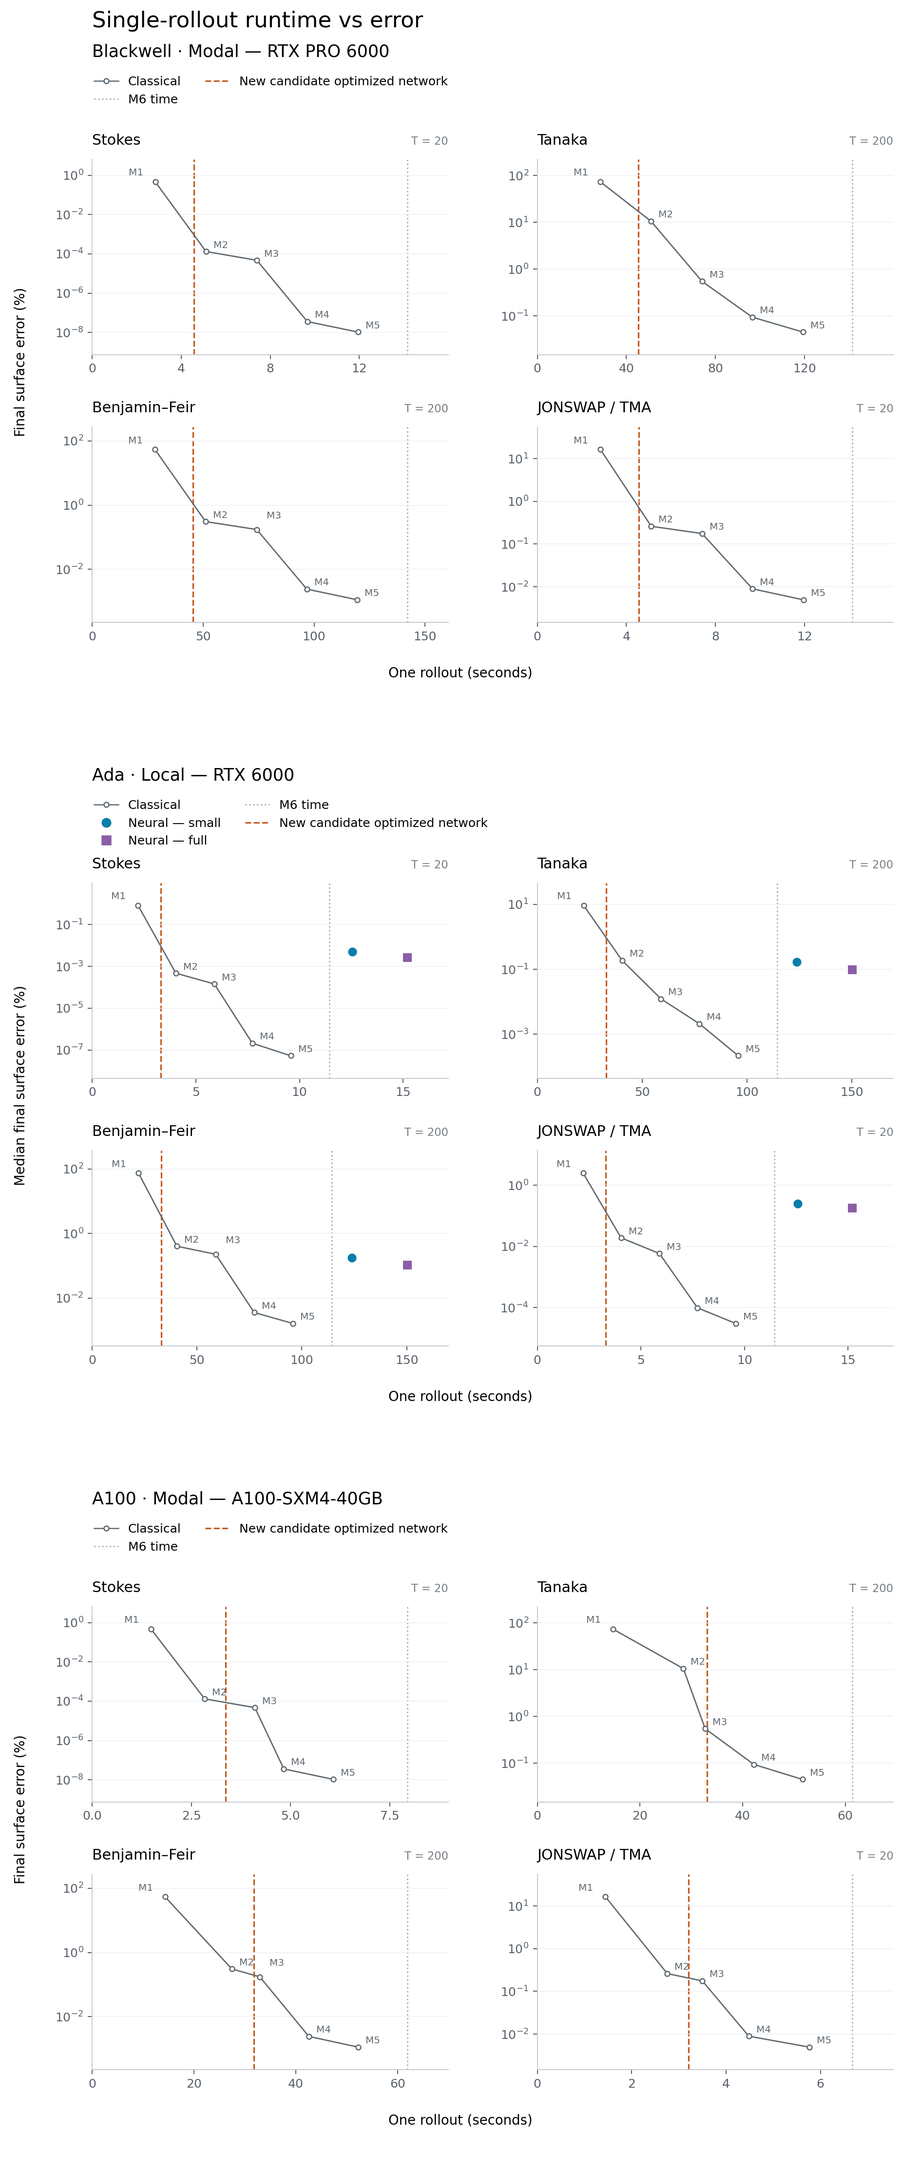
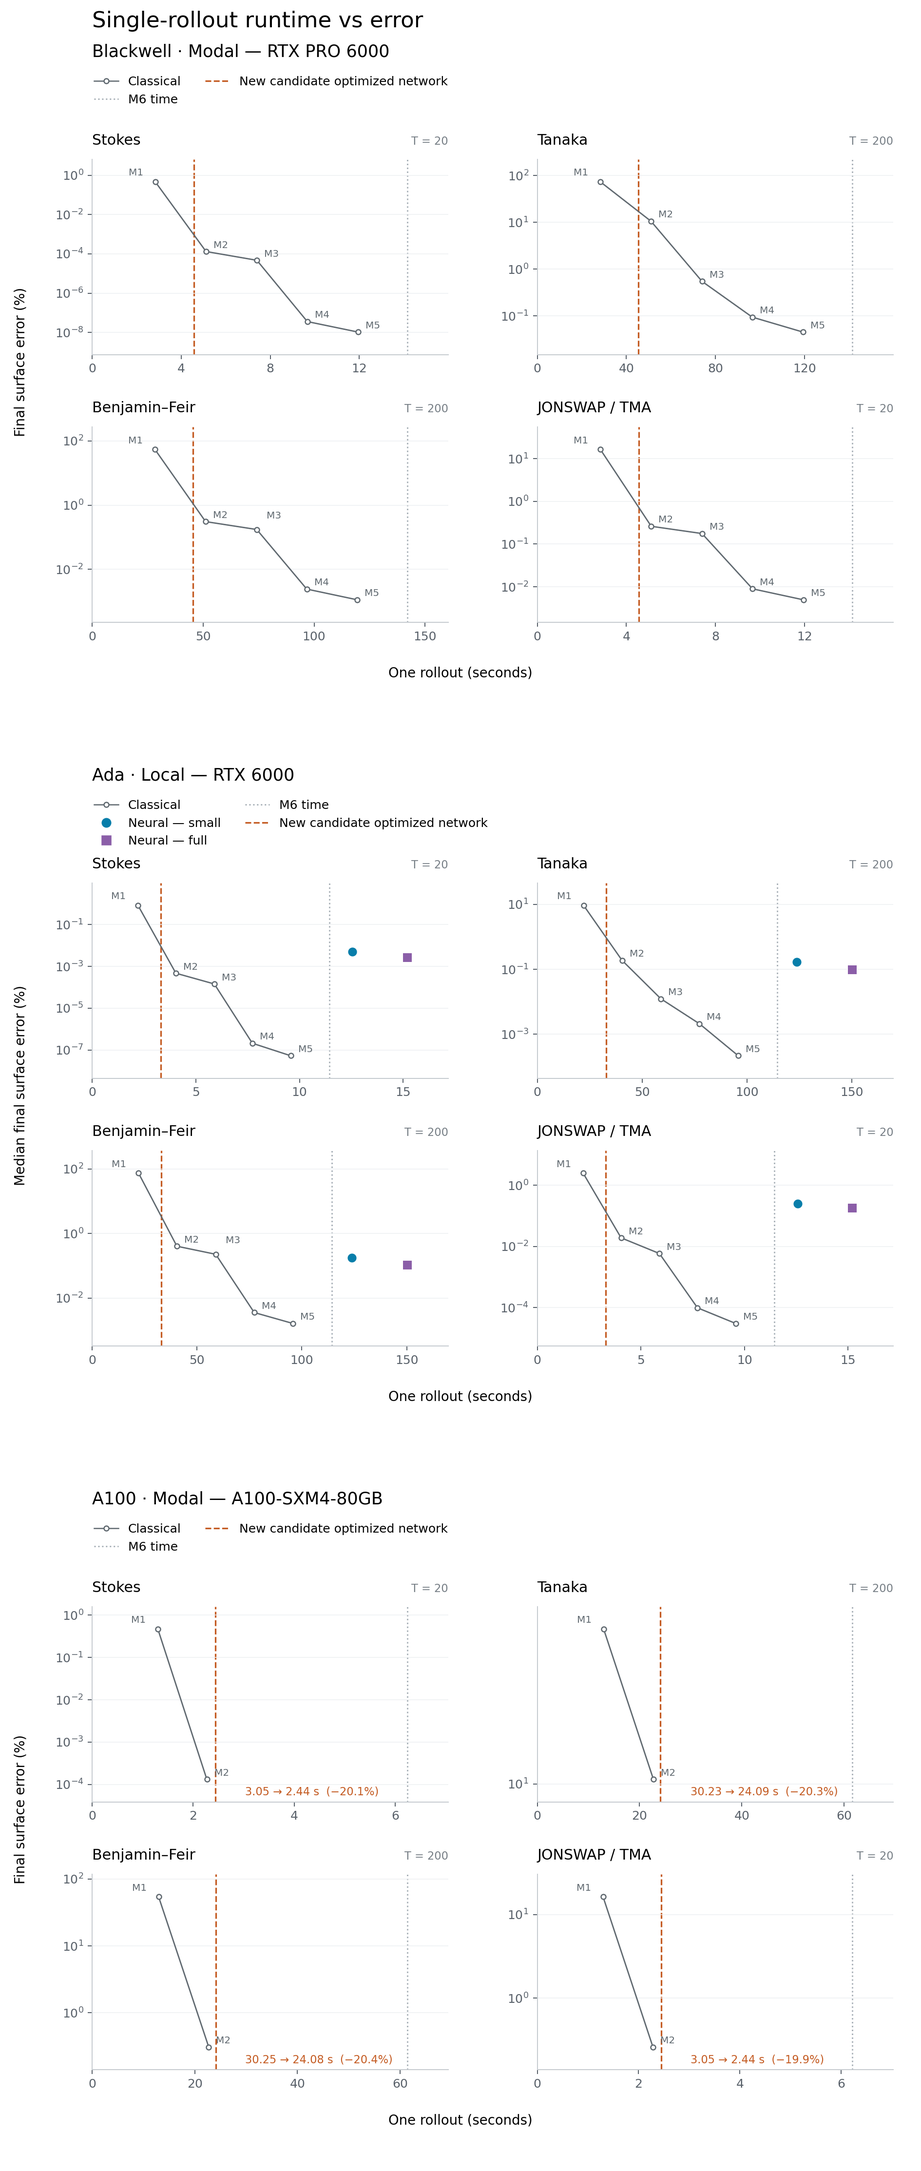
Record Fourier-I/O rollout speedup and update A100 figure

diff --git a/scripts/benchmark_dno_fusion.py b/scripts/benchmark_dno_fusion.py
@@ -249,12 +249,13 @@ if __name__ == "__main__":
     parser.add_argument("--output", type=Path, default=ROOT / "outputs/dno_fusion_20260924")
     parser.add_argument("--repeats", type=int, default=600)
     parser.add_argument("--variants", nargs="+", choices=(*VARIANTS, *TRIALS), default=VARIANTS)
+    parser.add_argument("--reference", choices=("original", "cufftdx"), default="original")
     parser.add_argument("--ept", type=int, choices=(4, 8, 16), default=8)
     parser.add_argument("--capture", choices=(*VARIANTS, *TRIALS), help="Capture 100 warmed calls of one variant instead of timing/testing.")
     args = parser.parse_args()
     variants = args.variants
-    if not args.capture and "original" not in variants:
-        parser.error("include original as the numerical reference")
+    if not args.capture and args.reference not in variants:
+        parser.error("include the numerical reference in variants")
     loaded = load_run(args.run)
     source = next((ROOT / "outputs/c27_tanaka_hard128_full_equal_local_20260918").glob(
         "eval_best_current_test_stratified_n32*/stokes_trajs.npz"
@@ -294,7 +295,7 @@ if __name__ == "__main__":
             started = time.perf_counter()
             functions[variant](eta, xi).block_until_ready()
             records[variant]["seconds"].append(time.perf_counter() - started)
-    reference = np.asarray(functions["original"](eta, xi))
+    reference = np.asarray(functions[args.reference](eta, xi))
     for variant, record in records.items():
         actual = np.asarray(functions[variant](eta, xi))
         record.update(median_us=float(np.median(record["seconds"]) * 1e6),
@@ -315,9 +316,9 @@ if __name__ == "__main__":
             families.extend([family] * 12)
     check_eta, check_xi = map(jnp.asarray, (np.concatenate(validation_eta), np.concatenate(validation_xi)))
     check_depth = jnp.log(jnp.asarray(np.concatenate(validation_depth)))
-    original = build_predict_gxi_batched(loaded)
-    expected = np.asarray(original(check_eta, check_xi, check_depth))
-    for variant in (name for name in variants if name != "original"):
+    reference_predict = build_variant(loaded, check_depth, eta.shape[-1], args.reference, fft_ept=args.ept)
+    expected = np.asarray(reference_predict(check_eta, check_xi))
+    for variant in (name for name in variants if name != args.reference):
         candidate = build_variant(loaded, check_depth, eta.shape[-1], variant, fft_ept=args.ept)
         if variant in ("fourier", "fourier_round"):
             candidate = jax.jit(lambda e, x, fn=candidate: jnp.fft.irfft(fn(jnp.fft.rfft(e), jnp.fft.rfft(x)), n=e.shape[-1]))
@@ -334,19 +335,27 @@ if __name__ == "__main__":
             other_xi = jnp.roll(check_xi, 1, axis=0)
             other = np.asarray(candidate(check_eta, other_xi))
             mixed = np.asarray(candidate(check_eta, 0.3 * check_xi - 0.7 * other_xi))
-            linear_error = float(np.linalg.norm(mixed - (0.3 * actual - 0.7 * other)) / np.linalg.norm(mixed))
+            denominator = 0.3 * np.linalg.norm(actual) + 0.7 * np.linalg.norm(other)
+            linear_error = float(np.linalg.norm(mixed - (0.3 * actual - 0.7 * other)) / denominator)
+            other_reference = np.asarray(reference_predict(check_eta, other_xi))
+            mixed_reference = np.asarray(reference_predict(check_eta, 0.3 * check_xi - 0.7 * other_xi))
+            reference_linear_error = float(np.linalg.norm(mixed_reference - (0.3 * expected - 0.7 * other_reference)) /
+                                          (0.3 * np.linalg.norm(expected) + 0.7 * np.linalg.norm(other_reference)))
+            mixed_error = float(np.linalg.norm(mixed - mixed_reference) / np.linalg.norm(mixed_reference))
             flat = np.asarray(candidate(jnp.zeros_like(check_eta), check_xi))
-            flat_reference = np.asarray(original(jnp.zeros_like(check_eta), check_xi, check_depth))
+            flat_reference = np.asarray(reference_predict(jnp.zeros_like(check_eta), check_xi))
             flat_error = float(np.linalg.norm(flat - flat_reference) / np.linalg.norm(flat_reference))
             zero_error = float(np.abs(np.asarray(candidate(check_eta, jnp.zeros_like(check_xi)))).max())
             records[variant]["validation"].update(linearity_relative_l2=linear_error,
-                                                  flat_relative_l2=flat_error, zero_xi_max_absolute=zero_error)
-            records[variant]["validation"]["passed"] &= linear_error <= 1e-5 and flat_error <= 1e-5 and zero_error == 0
+                                                  reference_linearity_relative_l2=reference_linear_error,
+                                                  mixed_relative_l2=mixed_error, flat_relative_l2=flat_error,
+                                                  zero_xi_max_absolute=zero_error)
+            records[variant]["validation"]["passed"] &= mixed_error <= 1e-5 and flat_error <= 1e-5 and zero_error == 0
         print(f"{variant}: 48-state max relative difference {relative.max():.3g}; "
               f"passed={records[variant]['validation']['passed']}", flush=True)
     report = {"run": str(args.run), "batch_size_timing": 1, "nx": eta.shape[-1],
               "parameters": sum(leaf.size for leaf in jax.tree.leaves(loaded.params)),
-              "device": jax.devices()[0].device_kind, "variants": records,
+              "device": jax.devices()[0].device_kind, "reference": args.reference, "variants": records,
               "scope": "Model-only inference prototypes; production model and checkpoints unchanged."}
     (args.output / "results.json").write_text(json.dumps(report, indent=2) + "\n")
 
@@ -375,5 +384,5 @@ if __name__ == "__main__":
         ax.text(value + 3, index, f"{value:.1f} µs", va="center")
     for suffix in ("png", "pdf"):
         fig.savefig(args.output / f"forward_fusion.{suffix}", dpi=180)
-    if any(records[variant]["validation"]["passed"] is False for variant in variants if variant != "original"):
+    if any(records[variant]["validation"]["passed"] is False for variant in variants if variant != args.reference):
         raise RuntimeError("Forward equivalence failed; see results.json for the rejected variants.")

diff --git a/paper-plots/plot_neural_advantage.py b/paper-plots/plot_neural_advantage.py
@@ -60,7 +60,7 @@ def draw_comparison(args: argparse.Namespace, fig: Figure | SubFigure, heading: 
     for ax, (family, title) in zip(axes.flat, FAMILIES, strict=True):
         if args.single_case:
             timing = warm["families"][family]
-            orders = np.arange(1, 7)
+            orders = np.asarray(sorted(int(name[1:]) for name in timing["methods"] if name.startswith("M")))
             seconds = np.asarray([np.median(timing["methods"][f"M{order}"]["seconds"]) for order in orders])
             errors = 100 * np.asarray([timing["methods"][f"M{order}"]["cached_reference_terminal_eta_error"] for order in orders])
             horizon = timing["horizon"]
@@ -179,12 +179,17 @@ if __name__ == "__main__":
             config.candidate_method = "fused_cufftdx_spectral_all"
             config.candidate_previous_method = None
             config.no_baseline_timings = None
+        a100.candidate_timings = [ROOT / "outputs/fourier_io_20260926/a100_full/rollouts.json"]
+        a100.timings = a100.candidate_timings[0]
+        a100.classical_timings = None
+        a100.candidate_method = "fourier_round_spectral_all"
+        a100.candidate_previous_method = "fused_cufftdx_spectral_all"
         fig = plt.figure(figsize=(10.5, 24.75))
         fig.suptitle("Single-rollout runtime vs error", y=0.995, fontsize=18, ha="left", x=0.10)
         blackwell, ada, ampere = fig.subfigures(3, 1)
         draw_comparison(modal, blackwell, "Blackwell · Modal — RTX PRO 6000")
         draw_comparison(args, ada, "Ada · Local — RTX 6000")
-        draw_comparison(a100, ampere, "A100 · Modal — A100-SXM4-40GB")
+        draw_comparison(a100, ampere, "A100 · Modal — A100-SXM4-80GB")
     else:
         fig = plt.figure(figsize=(10.5, 8))
         draw_comparison(args, fig)

diff --git a/experiments/experiments-2026-09-26.md b/experiments/experiments-2026-09-26.md
@@ -7,3 +7,4 @@
 | 2026-09-26 | 03:35 | A100 cuFFT versus cuFFTDx G1 in current packed spectral rollout | A100's native FP64 FFT performance differs from Ada/Blackwell, so cuFFTDx need not remain the fastest baseline backend after adapter optimization. | Added only fused_front_spectral_all selector for the existing batched-cuFFT front implementation. Personal Modal A100 job runs original/front/cuFFTDx48-state validation, then three full batch-one repeats of each candidate and M1/M2 plus one M6 reference across four families. Raw destination: outputs/a100_g1_backend_20260926/. | Static independent audit confirms only G1 execution differs: identical model-local unpadded N1024 FP64 baseline math, weights, depth clipping, normalization, G0 and learned branches. Floating-point summation order differs. Ruff/Pyright pass; fresh numerical checks pending. | Launch confirmed03:35; full timings pending. | TEST only option1. No training, spectral-interface changes, production edits or local GPU use. |
 | 2026-09-26 | 03:53 | Completed A100 G1 backend comparison | Test whether native cuFFT's strong A100 FP64 performance outweighs extra calls compared with the fused cuFFTDx baseline in full network execution. | Completed52 full timings and20 outputs. cuFFTDx→cuFFT median seconds: Stokes2.9756→3.5626(+19.73%), Tanaka29.5806→35.3613(+19.54%), BF29.5520→35.3438(+19.60%), JON3.0023→3.5643(+18.72%). Every cuFFT repeat is slower than its family's cuFFTDx repeats. Model-only200-repeat screen258.35→325.37 microseconds agrees with full-rollout ordering. Raw: outputs/a100_g1_backend_20260926/. | PASS: independent audit confirms protocol/counts, all outputs finite/positive and maximum M6 cached eta discrepancy5.08e-12. Both48-state forward checks differ from production by at most2.81e-8 relative. Not bitwise trajectory-equivalent: BF terminal eta error1.0691%→0.9575%; other differences small. Scoped Ruff/Pyright pass. | 00:17 from confirmed launch03:35 to downloaded results03:52; independent audit/documentation03:53. | REJECT cuFFT as speed replacement; retain cuFFTDx and existing Figure12. Keep one-line benchmark selector. No training, production changes, option2 implementation or local GPU use. Personal Modal app completed/stopped. |
 | 2026-09-26 | 20:26 | Native Fourier-input/output prototype and rounding checks | The solver already holds Fourier coefficients; keeping G0 and the learned correction spectral and shortening fused G1 can remove interface conversions without changing weights or the model-local baseline. | Added benchmark-only native predictor, spectral cuFFTDx G1 operation6, and matching saved-Gxi/RHS wiring. Kernel compares against direct JAX and old-sandwich roundtrip for batches1/2 with explicit Nyquist content. Initial all-spectral input normalization fails48-state equivalence at1.82e-4; revised variants preserve physical FP32 eta rounding or both eta/xi rounding. Fixed missing CLI plot label discovered after initial checks. Raw: outputs/fourier_io_20260926/a100/; refined A100 job under a100_refined/. | Kernel PASS: new spectral G1 differences≤6.31e-16; all24 native checks pass. Initial network FAILS1e-5 threshold; no full rollouts run. Static independent audit verifies scales, clipping, signs, endpoint handling and saved-predictor binding. Ruff/Pyright pass. Refined tests add xi-linearity, flat-surface and zero-xi checks before full rollouts. | Initial checks completed20:23; refined job launched20:25 and confirmed20:26. | REJECT changed input rounding; test rounding-preserving alternatives. No training, production edits or local GPU use. Pre-existing CUDA operation5 edits preserved outside task. |
+| 2026-09-26 | 20:51 | Completed native Fourier-I/O full-rollout comparison and Figure12 | Retaining physical FP32 input rounding should preserve the trained features while spectral output and a two-transform G1 kernel reduce execution work inside the spectral integrator. | Final variant preserves both input roundings. Refined candidate and old cuFFTDx control both failed comparison to unfused original at1.32e-5; cause unresolved, failed evidence retained. Explicit comparison to current cuFFTDx implementation passes unchanged1e-5 threshold. Completed52 full timings/20 outputs on actual A100-SXM4-80GB: old→new medians Stokes3.0486→2.4362s, Tanaka30.2265→24.0925s, BF30.2481→24.0818s, JON3.0505→2.4448s (19.86–20.39% reductions). New candidate remains5.97–7.28% slower than paired M2. Raw: outputs/fourier_io_20260926/a100_full/. Standalone physical-wrapper microbenchmark is slower and is not the native rollout comparison. | PASS: independent audit verifies52 timings, three repeats per candidate/M1/M2 and one M6 per family; same weights, N1024, batch1, dt0.01, four GL2 iterations, pad2, full T20/200. All20 outputs finite/positive; maximum cached-M6 eta discrepancy5.08e-12.48-state max DNO difference2.71e-7, pooled flat1.82e-7/mixed1.76e-7, exact zero-xi output. No material rollout-error regression; not bitwise equivalent. Native kernel24 checks pass. | Full run00:16 (20:32–20:48); independent audit, figure render and visual check20:51. | KEEP benchmark-only Fourier-I/O candidate. Figure12 A100 row uses only actual80GB measurements: fresh M1/M2 points, single M6 timing, and candidate savings; omit unmeasured M3–M5 rather than mix prior40GB timings. Ada/Blackwell unchanged. No training, production edits or local GPU use; Modal app completed/stopped. Preserve concurrent unrelated PyTorch/operation5 edits. |

diff --git a/notes/dno_profile_20260924.md b/notes/dno_profile_20260924.md
@@ -939,3 +939,73 @@ rollout speed. Raw measurements and forward HLO are under
 optimization; keep cuFFTDx and leave Figure12 unchanged. No training,
 production edits, spectral-interface implementation or local GPU use occurred.
 The Modal app completed and stopped after returning results.
+
+## Native Fourier-input/output inference — September 26
+
+The integrator already stores unnormalized Fourier coefficients. The
+benchmark-only `fourier_round_spectral_all` predictor accepts those coefficients
+and returns the DNO spectrum directly. G0 is a spectral multiplication; the
+learned correction stays spectral after its final branch reduction. A new
+cuFFTDx G1 operation accepts spectral xi and returns spectral terms, reducing
+each fused term from four transforms to two: inverse FFT, multiplication by
+eta, forward FFT. Saved Gxi uses this same predictor through a physical-output
+wrapper. The physical-space surface features, nonlinearities and branch
+products remain unchanged, as do the checkpoint, clipped depth, unpadded model
+grid and FP64-G1/FP32-learned precision choices. This is not the rejected
+shared-classical-M1 baseline replacement.
+
+The first all-spectral input-normalization attempt differed by1.82e-4 over48
+states, exceeding the unchanged1e-5 threshold. Preserving eta rounding alone
+did not resolve it. The accepted input path retains both original physical
+FP32 input roundings before normalization and transformation. It therefore
+does not remove every input-side FFT. All24 native-kernel checks passed,
+including batches1/2 and explicit Nyquist content; the spectral G1 kernel
+agrees with direct JAX and the old kernel's roundtrip to6.31e-16 relative.
+
+In the second allocation, both the existing cuFFTDx control and the
+rounding-preserving candidate differed from the unfused predictor by1.32e-5.
+That failed comparison is retained under
+`outputs/fourier_io_20260926/a100_refined/`; its cause is unresolved. The final
+test explicitly uses the current cuFFTDx candidate as its reference, retaining
+the1e-5 threshold, and passes with maximum per-state relative difference
+2.71e-7 across48 states. Additional pooled-norm flat and mixed-input comparisons
+pass, and zero xi gives exact zero. Numerical linearity residuals are reported
+for both implementations. These checks establish agreement with the current
+optimized candidate, not new agreement with the unfused predictor.
+
+Full-rollout results use a personal Modal A100-SXM4-80GB and the same N1024,
+batch1, dt0.01, four GL2 iterations, classical padding2 and T20/200 protocol.
+The physical-wrapper standalone timing includes conversions absent from the
+native spectral rollout and is not used to infer its speed. Raw results:
+`outputs/fourier_io_20260926/a100_full/`. No training or production changes.
+
+All52 full timings and20 method/family outputs completed. Median seconds
+from three repeats, with one M6 accuracy reference per family:
+
+| Family | Previous candidate | Fourier-I/O candidate | Runtime reduction | M2 |
+| --- | ---: | ---: | ---: | ---: |
+| Stokes | 3.0486 | 2.4362 | 20.09% | 2.2708 |
+| Tanaka | 30.2265 | 24.0925 | 20.29% | 22.7126 |
+| Benjamin–Feir | 30.2481 | 24.0818 | 20.39% | 22.7256 |
+| JONSWAP/TMA | 3.0505 | 2.4448 | 19.86% | 2.2841 |
+
+Every new-candidate repeat is faster than every corresponding old-candidate
+repeat. The new candidate remains5.97–7.28% slower than paired M2 on this GPU.
+All20 returned outputs are finite with positive depth; maximum cached-M6
+surface discrepancy is5.08e-12. Forward max relative discrepancy is2.71e-7;
+mixed-input and flat pooled discrepancies are1.76e-7 and1.82e-7. The normalized
+linearity residual is9.28e-6 for both candidate and reference.
+
+Terminal surface errors against M6 change from0.0108065% to0.0107626% for
+Stokes,98.8651% to98.8658% for Tanaka,1.06909% to1.05842% for Benjamin–Feir,
+and2.89507% to2.89498% for JONSWAP/TMA. This timing checkpoint is unchanged;
+these single cases are not trained-model aggregate accuracy. The operation
+reordering is not bitwise trajectory-equivalent.
+
+KEEP the native Fourier-I/O variant as the measured A100 inference improvement,
+remaining benchmark-only. Figure12 uses an explicitly labeled80GB A100 row,
+with fresh M1/M2 points and the single M6 runtime reference. M3–M5 were not
+measured on80GB and are omitted; previous40GB timings are not mixed into this
+row. Ada and Blackwell remain unchanged. Future Modal comparisons should
+request the intended A100 memory variant explicitly. The app completed and
+stopped; no local GPU use or retraining occurred.

diff --git a/paper-plots/README.md b/paper-plots/README.md
@@ -173,7 +173,7 @@ Stokes and JONSWAP/TMA. These conclusions use one timing sample per method/famil
 Blackwell/Modal panels are on top, Ada/local in the middle, and A100/Modal below.
 All three hardware sections show the candidate's measured runtimes as orange
 vertical lines, without assigning accuracy to the one-epoch timing checkpoint.
-The candidate retains the same checkpoint, G0+G1 baselines, cuFFTDx G1 kernel,
+The candidate retains the same checkpoint, G0+G1 baselines, cuFFTDx G1 evaluation,
 cached depth multipliers and packed network branches. Its spectral adapter
 removes repeated physical/Fourier round trips and batches independent inverse
 FFTs. Every classical order M1–M6 now receives the shared nonlinear FFT packing.
@@ -189,6 +189,16 @@ candidate line and its slowdown annotations have been removed; its measured
 results remain in the experiment records below. No candidate accuracy
 coordinate is assigned.
 
+The A100 line uses the Fourier-output candidate `fourier_round_spectral_all`
+from `outputs/fourier_io_20260926/a100_full/rollouts.json`. Its annotations compare
+three-repeat full-rollout medians against `fused_cufftdx_spectral_all` in the same
+run. The candidate preserves physical-space FP32 input rounding, returns the
+learned correction and G0 directly in Fourier space, and uses a spectral-output
+cuFFTDx G1 kernel. Ada and Blackwell are unchanged. This A100 allocation is the
+80GB SXM4 variant, so the entire A100 row uses only this run: three repeats for
+M1/M2 and both candidates, and one M6 reference rollout per family. Unmeasured
+M3–M5 are omitted; earlier 40GB A100 timings are not mixed into the new row.
+
 Each baseline-replacement comparison uses three full batch-one rollouts of
 M1, M2, the previous candidate and the shared-baseline candidate, plus one M6
 trajectory for accuracy checks. Horizons are T=20 for
@@ -199,9 +209,9 @@ no training is performed.
 
 Replacement measurements are under `outputs/shared_m1_20260926/`:
 `ada_full.json`, `blackwell/rollouts.json` and `a100/rollouts.json`. They provide
-the retained candidate line and fresh M1/M2 runtime medians. M3–M6 retain the preceding
+the Ada/Blackwell candidate lines and M1/M2 runtime medians. Their M3–M6 retain the preceding
 three-repeat medians from `outputs/fair_classical_20260925/`, including the
-M6 runtime reference. Classical error coordinates are unchanged: Ada retains
+M6 runtime reference. Ada/Blackwell classical error coordinates are unchanged: Ada retains
 the earlier 32-case medians and small/full neural points; the Modal panels use
 single-case errors against cached M6. The retained and rejected methods are
 `fused_cufftdx_spectral_all` and `shared_m1_spectral_all`, respectively.

diff --git a/EXPERIMENTS.md b/EXPERIMENTS.md
@@ -33,11 +33,11 @@ could not be recovered at all are in
 
 ## Dated logs
 
-78 files, 1089 rows.
+78 files, 1090 rows.
 
 | Date | Rows | File | Size |
 | --- | --- | --- | --- |
-| 2026-09-26 | 7 | [`experiments/experiments-2026-09-26.md`](experiments/experiments-2026-09-26.md) | 10 KB |
+| 2026-09-26 | 8 | [`experiments/experiments-2026-09-26.md`](experiments/experiments-2026-09-26.md) | 12 KB |
 | 2026-09-25 | 19 | [`experiments/experiments-2026-09-25.md`](experiments/experiments-2026-09-25.md) | 28 KB |
 | 2026-09-24 | 19 | [`experiments/experiments-2026-09-24.md`](experiments/experiments-2026-09-24.md) | 33 KB |
 | 2026-09-23 | 9 | [`experiments/experiments-2026-09-23.md`](experiments/experiments-2026-09-23.md) | 17 KB |
